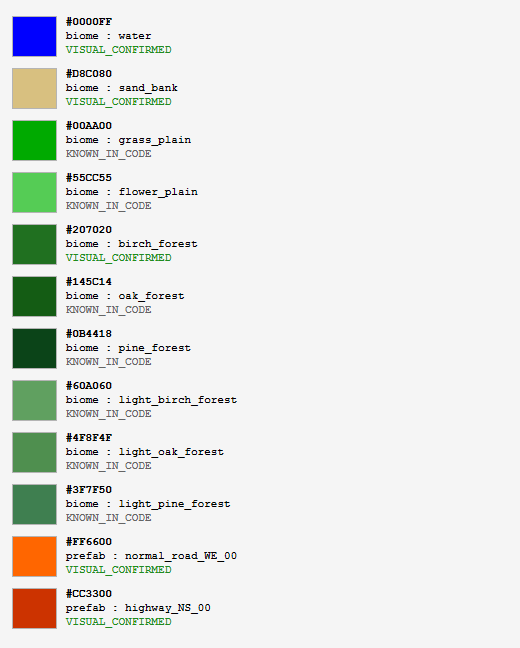
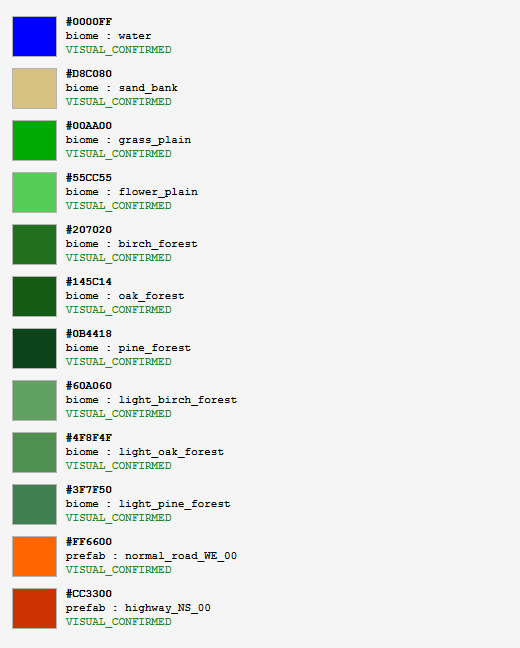
Promote DeadMTL WorldGen palette proof statuses

diff --git a/tests/PZMapForge.Cli.Tests/DeadMtlPaletteProofProcessTests.cs b/tests/PZMapForge.Cli.Tests/DeadMtlPaletteProofProcessTests.cs
@@ -124,7 +124,36 @@ public sealed class DeadMtlPaletteProofProcessTests : IDisposable
 
         var text = File.ReadAllText(path);
         Assert.Contains("VISUAL_CONFIRMED", text, StringComparison.Ordinal);
-        Assert.Contains("KNOWN_IN_CODE",    text, StringComparison.Ordinal);
+        // KNOWN_IN_CODE still appears in the header legend (expected after promotion)
+        Assert.Contains("KNOWN_IN_CODE", text, StringComparison.Ordinal);
+    }
+
+    [Fact]
+    public void ChartScript_Swatches_GrassPlainIsVisualConfirmed()
+    {
+        var realPalettesDir = Path.Combine(RepoRoot, "examples", "deadmtl-layer-pack", "palettes");
+        RunPowerShell(ChartScript, "-PalettesDir", realPalettesDir);
+
+        var text = File.ReadAllText(Path.Combine(realPalettesDir, "worldgen-png-palette.swatches.txt"));
+        var grassLine = text.Split('\n')
+            .FirstOrDefault(l => l.Contains("grass_plain", StringComparison.Ordinal)
+                              && l.Contains("VISUAL_CONFIRMED", StringComparison.Ordinal));
+        Assert.NotNull(grassLine);
+    }
+
+    [Fact]
+    public void ChartScript_Swatches_PineForestIsVisualConfirmed()
+    {
+        var realPalettesDir = Path.Combine(RepoRoot, "examples", "deadmtl-layer-pack", "palettes");
+        RunPowerShell(ChartScript, "-PalettesDir", realPalettesDir);
+
+        var text = File.ReadAllText(Path.Combine(realPalettesDir, "worldgen-png-palette.swatches.txt"));
+        // "pine_forest" but not "light_pine_forest" — filter via VISUAL_CONFIRMED data line
+        var pineLine = text.Split('\n')
+            .FirstOrDefault(l => l.Contains("pine_forest", StringComparison.Ordinal)
+                              && !l.Contains("light_pine_forest", StringComparison.Ordinal)
+                              && l.Contains("VISUAL_CONFIRMED", StringComparison.Ordinal));
+        Assert.NotNull(pineLine);
     }
 
     [Fact]

diff --git a/tests/PZMapForge.Core.Tests/WorldGen/DeadMtlPaletteProofTests.cs b/tests/PZMapForge.Core.Tests/WorldGen/DeadMtlPaletteProofTests.cs
@@ -257,4 +257,41 @@ public sealed class DeadMtlPaletteProofTests
             RepoRoot, "examples", "deadmtl-layer-pack", "README.md"));
         Assert.Contains("run-worldgen-palette-proof-build.ps1", readme, StringComparison.Ordinal);
     }
+
+    // -----------------------------------------------------------------------
+    // MAP-21A: status promotion — docs record anomaly and design warning
+    // -----------------------------------------------------------------------
+
+    [Fact]
+    public void PaletteProofDoc_MentionsWaterAnomaly()
+    {
+        var text = File.ReadAllText(Path.Combine(DocsDir, "DEADMTL_WORLDGEN_PALETTE_PROOF.md"));
+        // MAP-21A isolated water swatch produced a black/unwalkable display anomaly
+        Assert.Contains("anomaly", text, StringComparison.OrdinalIgnoreCase);
+    }
+
+    [Fact]
+    public void PaletteProofDoc_MentionsShorelineProofWarning()
+    {
+        var text = File.ReadAllText(Path.Combine(DocsDir, "DEADMTL_WORLDGEN_PALETTE_PROOF.md"));
+        // Proof-design warning: use shaped shoreline, not tiny isolated swatches
+        Assert.Contains("shoreline", text, StringComparison.OrdinalIgnoreCase);
+    }
+
+    [Fact]
+    public void PaletteProofDoc_AllTwelveEntriesVisualConfirmed()
+    {
+        var text = File.ReadAllText(Path.Combine(DocsDir, "DEADMTL_WORLDGEN_PALETTE_PROOF.md"));
+        // Status table header
+        Assert.Contains("All 12 colors are VISUAL_CONFIRMED", text, StringComparison.Ordinal);
+    }
+
+    [Fact]
+    public void ChartScript_AllEntriesNowVisualConfirmed()
+    {
+        var text = File.ReadAllText(ChartScript);
+        // All 12 entries should be VISUAL_CONFIRMED — none remain KNOWN_IN_CODE as a value
+        // KNOWN_IN_CODE still appears in documentation comments, which is expected
+        Assert.DoesNotContain("= \"KNOWN_IN_CODE\"", text, StringComparison.Ordinal);
+    }
 }

diff --git a/docs/authoring/DEADMTL_WORLDGEN_PALETTE_PROOF.md b/docs/authoring/DEADMTL_WORLDGEN_PALETTE_PROOF.md
@@ -43,22 +43,44 @@ A passing test suite does not constitute visual confirmation.
 
 ## Current palette colors
 
-| Hex | Type | Key | Status |
-|---|---|---|---|
-| `#0000FF` | biome | water | VISUAL_CONFIRMED (MAP-20A) |
-| `#D8C080` | biome | sand_bank | VISUAL_CONFIRMED (MAP-20A) |
-| `#00AA00` | biome | grass_plain | KNOWN_IN_CODE |
-| `#55CC55` | biome | flower_plain | KNOWN_IN_CODE |
-| `#207020` | biome | birch_forest | VISUAL_CONFIRMED (MAP-20A) |
-| `#145C14` | biome | oak_forest | KNOWN_IN_CODE |
-| `#0B4418` | biome | pine_forest | KNOWN_IN_CODE |
-| `#60A060` | biome | light_birch_forest | KNOWN_IN_CODE |
-| `#4F8F4F` | biome | light_oak_forest | KNOWN_IN_CODE |
-| `#3F7F50` | biome | light_pine_forest | KNOWN_IN_CODE |
-| `#FF6600` | prefab | normal_road_WE_00 | VISUAL_CONFIRMED (MAP-20A) |
-| `#CC3300` | prefab | highway_NS_00 | VISUAL_CONFIRMED (MAP-13C/15C/16B) |
+All 12 colors are VISUAL_CONFIRMED as of MAP-21A.
+
+| Hex | Type | Key | Status | MAP ref |
+|---|---|---|---|---|
+| `#0000FF` | biome | water | VISUAL_CONFIRMED | MAP-20A |
+| `#D8C080` | biome | sand_bank | VISUAL_CONFIRMED | MAP-20A |
+| `#00AA00` | biome | grass_plain | VISUAL_CONFIRMED | MAP-21A |
+| `#55CC55` | biome | flower_plain | VISUAL_CONFIRMED | MAP-21A |
+| `#207020` | biome | birch_forest | VISUAL_CONFIRMED | MAP-20A + MAP-21A |
+| `#145C14` | biome | oak_forest | VISUAL_CONFIRMED | MAP-21A |
+| `#0B4418` | biome | pine_forest | VISUAL_CONFIRMED | MAP-21A |
+| `#60A060` | biome | light_birch_forest | VISUAL_CONFIRMED | MAP-21A |
+| `#4F8F4F` | biome | light_oak_forest | VISUAL_CONFIRMED | MAP-21A |
+| `#3F7F50` | biome | light_pine_forest | VISUAL_CONFIRMED | MAP-21A |
+| `#FF6600` | prefab | normal_road_WE_00 | VISUAL_CONFIRMED | MAP-20A + MAP-21A |
+| `#CC3300` | prefab | highway_NS_00 | VISUAL_CONFIRMED | MAP-13C/15C/16B + MAP-21A |
 
 All keys are registered in `WorldGenRegistry.cs`.
+
+### MAP-21A confirmation record
+
+MAP-21A palette proof pack loaded in PZ and visually confirmed:
+grass_plain, flower_plain, oak_forest, pine_forest, light_birch_forest,
+light_oak_forest, light_pine_forest, normal_road_WE_00, highway_NS_00.
+
+MAP-21A did not produce readable isolated water or sand_bank swatches.
+The isolated water swatch appeared as a black/unwalkable anomaly.
+water and sand_bank remain VISUAL_CONFIRMED from MAP-20A (full-canvas water base
+and shoreline patch, not isolated tiny swatches).
+
+### Proof-design warning: isolated water and shore swatches
+
+Do not use tiny isolated water/sand_bank swatches as a final visual proof for
+these biomes. Isolated small water rectangles in a non-water context produce
+display anomalies (black/unwalkable tiles) rather than readable terrain.
+
+Use a larger shaped shoreline patch with water as the canvas base
+(as in MAP-20A) when testing water and sand_bank visually.
 
 ---
 
